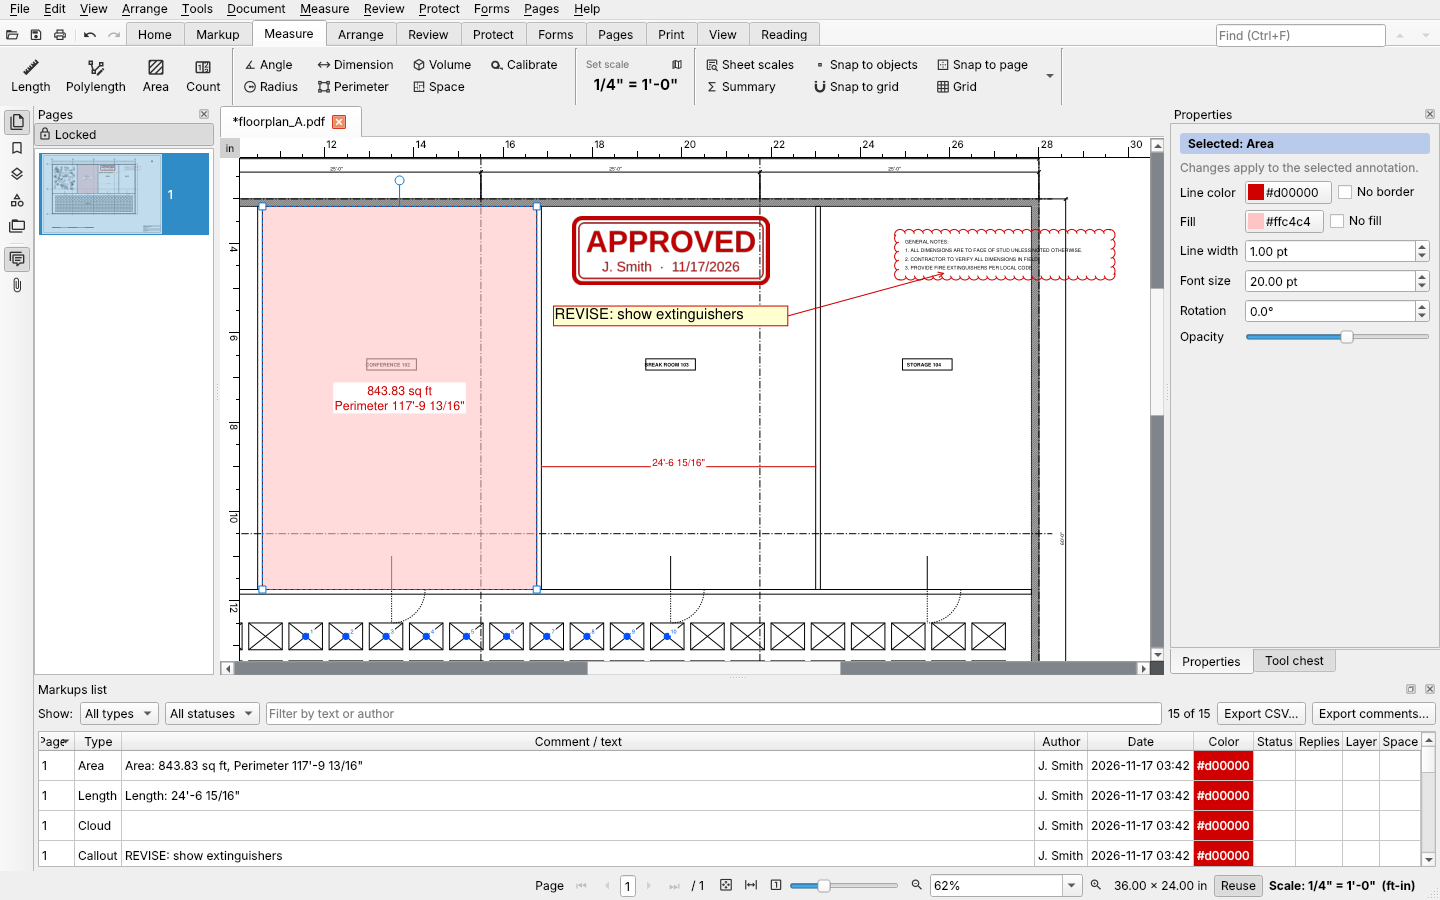
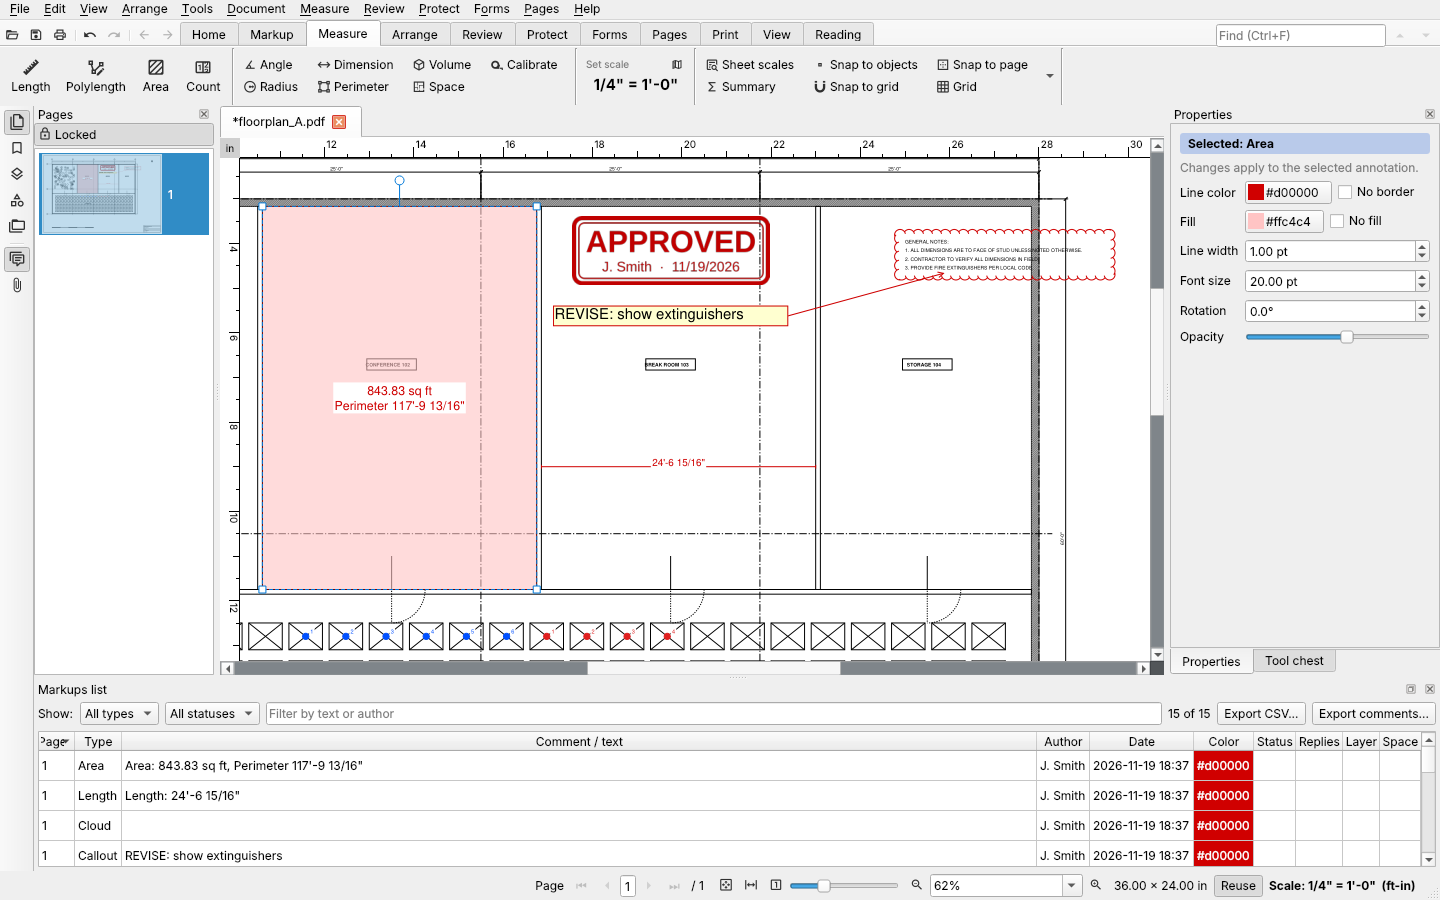
1.15.10: Back/Forward, links land where they say, Ctrl+middle-click, the Hand only views
Version 1.15.10, its CHANGELOG row (the 1.15.9 row's commit filled in:
9446127) and release notes (EN/ES/IT). README: Back and Forward,
Ctrl+middle-click, the view-only Hand and Space, named counts; the
screenshots made again (the Back / Forward arrows by Undo and Redo, two
named counts in their own colors on the measure one).

Claude-Session: https://claude.ai/code/session_01L7sMax7KMDgKJNCeao3RgY

Changed region(s): [[0.0938, 0.0311, 0.5938, 0.0622], [0.7188, 0.8089, 0.8125, 0.9644], [0.375, 0.8089, 0.4375, 0.84]]

diff --git a/tools/make_screenshots.py b/tools/make_screenshots.py
@@ -12,7 +12,8 @@ scene is set up through the app's own steps:
   screenshot-edit-text.png  Edit text open on a paragraph of the catalog's own text
   screenshot-forms.png      the catalog's order form filled in and signed, fields highlighted
   screenshot-measure.png    a floor plan measured to the scale its title block gives: an area
-                            (selected), a length, counts, a cloud with a callout, a stamp
+                            (selected), a length, two named counts, a cloud with a callout, a
+                            stamp
 
 The sample catalog ("Desert Bloom", 4 pages) is drawn here with PyMuPDF and its tile
 pictures with Pillow; the floor plan is tests/cad_samples.py's. Both go to a temporary
@@ -80,7 +81,7 @@ def _no_box(*args, **_kw):
 for _name in ("question", "information", "warning", "critical"):
     setattr(QMessageBox, _name, staticmethod(_no_box))
 
-from kanzonas import annotations, measure, theme  # noqa: E402
+from kanzonas import annotations, counts, measure, theme  # noqa: E402
 from kanzonas.main_window import MainWindow  # noqa: E402
 
 W, H = 612, 792                      # US Letter
@@ -683,7 +684,12 @@ def measure_scene(cad, plan, outdir):
     c = (r.tl + r.br) / 2
     big = pymupdf.Rect(c, c) + (pymupdf.Rect(r.tl - c, r.br - c) * 3.0)
     v._create(0, {"kind": "stamp", "props": props("stamp"), "rect": big})
+    # two named counts, each its own color (1.15.9): six workstations, then four data outlets
+    annotations.set_tool_props("m_count", props("m_count", group="Workstations"))
     for k in range(10):
+        if k == 6:
+            annotations.set_tool_props("m_count", props("m_count", group="Data outlets",
+                                                        stroke=counts.COLORS[1]))
         v.place_count(0, at(4 + (8 + k) * 3.6 + 1.5, 38 + 1.2))
     v.select_xref(0, area)
     show_markups_list(w, 190)

diff --git a/kanzonas/__init__.py b/kanzonas/__init__.py
@@ -1,6 +1,6 @@
 """KanzonasPDF: a free, fast PDF reader and editor."""
 
-__version__ = "1.15.9"
+__version__ = "1.15.10"
 
 # PyMuPDF 2.0 imports its optional layout-analysis package at import time, and that package
 # imports onnxruntime (a 100 MB AI runtime, also shipped here for OCR) as soon as it is

diff --git a/CHANGELOG.md b/CHANGELOG.md
@@ -5,7 +5,8 @@ and the installer is named `KanzonasPDF-v<version>-setup.exe` (the zips keep the
 
 | Version | Commit | Changes |
 | --- | --- | --- |
-| 1.15.9 | (this) | From @cloydcc-dev's issue #107 (19 Nov: "Is there a way to reset the count and set the layers and labels like a properties box (current one only show color and size)"; "if I remove one count it will just continue from the last (checkbox would be nice to turn on or off this behavior ...)"; "I also cant edit the labels from markup list so no way to fix the missing number") and the owner (19 Nov: renumbering an option, on by default; numbers fixed in Properties, the Markups list stays read-only). **Fixed: the Count tool's group could not be changed**: every marker went into "Count 1", though its tooltip said "set the group name in Properties" and the manual "with named groups" (Properties had no such row since Count came in). **Count in Properties** (counts.py, PropertiesPanel.count_rows, MainWindow._show_count_rows): Group (an editable list of the document's groups), New count (counts.next_group_name: Count 2 and on, whose first marker is 1), Keep the numbers in order (props "order", on by default; for the whole group), Layer (the Count tool's own, DocumentView.count_layer: As the Layers tab says, No layer, a layer, New layer...; picking a group again picks its markers' layer, count_group_layer), and the next marker's group and number. A selected marker: its Group (it takes the next number of the new group), Number (DocumentView.update_selected_counts; with the order kept, the others between its old and new number move one place), Layer, Keep the numbers in order. **Keep the numbers in order**: deleting markers (Delete, Cut, the Eraser) or moving one to another group numbers the rest of a group that keeps its order 1, 2, 3... again on every page, in the same undo step (DocumentView._counts_after_delete, counts.renumbered, _commit_counts across pages). Right-click > **Renumber group** (renumber_selected_counts) closes any gaps. A Tool Chest entry of the Count tool keeps its group with its color (New count and a group picked change that entry while it's in use: MainWindow._count_group_picked). **Each list its own look** (the owner, 19 Nov, both of the color ideas): New count takes the first of counts.COLORS no group of the document uses (counts.next_color); picking a group the document has gives the next markers its markers' layer, color, text size and opacity (counts.look_of, MainWindow._count_group_picked, _set_count_tool). **Gaps and repeats are shown** (the owner, 19 Nov: "If there's a gap, does it alert the user in any way?"): Properties names a group's missing and repeated numbers (counts.problems, problem_text), with Renumber beside it (DocumentView.renumber_count_group); nothing when they're clean. **Placed markers aren't selected** (place_count, select=False): Properties keeps showing the tool's group, next number and layer while you click, and follows each marker (documentChanged). Manual (EN/ES/IT): Measure, Count. Tests: tests/test_count_groups.py. |
+| 1.15.10 | (this) | From the owner (19 Nov). **Back / Forward** ("a back (and forward) button, up by the ribbon but not in a tab ... a selection in the right-click drop down. Alt + left arrow (back) and alt + right arrow (fwd)"; "all of your suggestions, including cross-document ability"): MainWindow.go_back / go_forward, beside Undo and Redo, View > Go to, first in the page's right-click menus; a jump (a link, a bookmark, Go to page, First / Last page, the page list, the Markups list and Next / Previous comment, a sheet of a set, the first match of a search) leaves its place (DocumentView.location, jumpFrom; goto_page(remember=True)); places across documents, a closed tab's file opened again (_show_place); held weakly (a closed view isn't kept among the open documents); 100 each way. **Links land where they say** ("it barely shows the bottom of it and what I see is more of the page after", on pages that aren't turned): a link through a named destination comes back from PyMuPDF in the PDF's own numbers, from the page's bottom; a link's place is already turned, a bookmark's isn't (DocumentView._go_to, space "pdf" / "shown" / "page"); a jump never takes the page out of the window. **Ctrl+middle-click a link** ("opening the same document in another tab with that location"; "View only (tab needs to say so in parentheses next to it), but Split View as an option in settings and a one time popup"; "a choice between Split View or opening in a new tab"): a new tab "(view only)" (DocumentView.mirror, view_only_tab; Save and Undo act on its document's tab; it closes with it) or the split view; asked once with Remember my choice; Preferences > Mouse. **The Hand only views** ("I want the hand to always show no matter what. Selecting text or objects while in hand should not be doable. Hand is like a view only type thing"): always a hand (the pointing hand on a link), never selects or edits (1.15.8's text selection and 1.12's markup selection by the Hand, and their two Preferences > Mouse switches, are gone), follows links (also under a markup: link_to_follow) and fills forms, a view-only right-click menu, a double-click opens only an attached file. **Space held** drags the page with any tool (DocumentView.space_pan). README: the new features, two named counts on the measure screenshot (tools/make_screenshots.py), the screenshots made again. Manual (EN/ES/IT). Tests: test_back_forward, test_link_jump, test_text_cursor (the Hand, Space), and tests that used the Hand to edit now use Select. |
+| 1.15.9 | 9446127 | From @cloydcc-dev's issue #107 (19 Nov: "Is there a way to reset the count and set the layers and labels like a properties box (current one only show color and size)"; "if I remove one count it will just continue from the last (checkbox would be nice to turn on or off this behavior ...)"; "I also cant edit the labels from markup list so no way to fix the missing number") and the owner (19 Nov: renumbering an option, on by default; numbers fixed in Properties, the Markups list stays read-only). **Fixed: the Count tool's group could not be changed**: every marker went into "Count 1", though its tooltip said "set the group name in Properties" and the manual "with named groups" (Properties had no such row since Count came in). **Count in Properties** (counts.py, PropertiesPanel.count_rows, MainWindow._show_count_rows): Group (an editable list of the document's groups), New count (counts.next_group_name: Count 2 and on, whose first marker is 1), Keep the numbers in order (props "order", on by default; for the whole group), Layer (the Count tool's own, DocumentView.count_layer: As the Layers tab says, No layer, a layer, New layer...; picking a group again picks its markers' layer, count_group_layer), and the next marker's group and number. A selected marker: its Group (it takes the next number of the new group), Number (DocumentView.update_selected_counts; with the order kept, the others between its old and new number move one place), Layer, Keep the numbers in order. **Keep the numbers in order**: deleting markers (Delete, Cut, the Eraser) or moving one to another group numbers the rest of a group that keeps its order 1, 2, 3... again on every page, in the same undo step (DocumentView._counts_after_delete, counts.renumbered, _commit_counts across pages). Right-click > **Renumber group** (renumber_selected_counts) closes any gaps. A Tool Chest entry of the Count tool keeps its group with its color (New count and a group picked change that entry while it's in use: MainWindow._count_group_picked). **Each list its own look** (the owner, 19 Nov, both of the color ideas): New count takes the first of counts.COLORS no group of the document uses (counts.next_color); picking a group the document has gives the next markers its markers' layer, color, text size and opacity (counts.look_of, MainWindow._count_group_picked, _set_count_tool). **Gaps and repeats are shown** (the owner, 19 Nov: "If there's a gap, does it alert the user in any way?"): Properties names a group's missing and repeated numbers (counts.problems, problem_text), with Renumber beside it (DocumentView.renumber_count_group); nothing when they're clean. **Placed markers aren't selected** (place_count, select=False): Properties keeps showing the tool's group, next number and layer while you click, and follows each marker (documentChanged). Manual (EN/ES/IT): Measure, Count. Tests: tests/test_count_groups.py. |
 | 1.15.8 | 9ec4fe4 | From the owner (18 Nov: "When I'm selecting text (not in cad mouse), the cursor is a hand instead of the text cursor"; "The cursor should be the pointer arrow until it browses over text"; "When in select mode, the hand should not drag the page", choosing that the Hand acts like Select there). **Standard (Select) mouse mode: nothing drags the page** (MainWindow.set_tool: the Hand picked there, by H, its button or a return to the last basic tool, is Select, with a status line saying how to move the page: the held wheel or the Hand mouse mode). **The text cursor over text, outside CAD mode** (DocumentView.text_cursor_at: on or right next to text a drag selects, the same test text_selection starts with; never in the CAD mouse mode, which keeps the plus or the arrow, the 12 Nov decision). **Select**: the I-beam over text, the arrow elsewhere, the four-way arrow over a markup (PageWidget._update_select_cursor). **The Hand selects text, as Acrobat's does**: over text the I-beam, and a drag from text selects it (PageWidget._hand_text, _begin_text_drag, shared with the text tools; a double-click selects the word, three clicks the line); its pointer is the arrow (DocumentView._tool_cursor; the closed hand while it moves the page; the open hand in CAD mode or with the option off), also over a markup (a click selects the markup); a link still opens, and a drag from anywhere else moves the page. **Fixed**: a cursor the gray around the pages took from a page (the text cursor, the four-way arrow) showed on that page's blank paper once the pointer was on it (PageWidget.enterEvent clears it; _Canvas takes only a cursor the page set). DocumentView.cad_like: the CAD mode or its plus cursor or window selection on. Preferences > Mouse, Hand: "Dragging from text with the Hand selects the text (the text cursor shows over text)" (on; mouse_modes "hand_text"; in CAD mode the Hand only moves the page). Manual (EN/ES/IT): Mouse: Hand, Select tool, the Hand tool, Preferences > Mouse. Tests: test_text_cursor (Standard, Hand and CAD modes, with mouse events sent to the page). |
 | 1.15.7 | 30307ab | From the owner (16 Nov: "Preview mode inside outlook classic isn't working. I think it used to"; Outlook 64-bit said "This file cannot be previewed because there is no previewer installed for it" while Explorer's Preview pane and thumbnails worked; KanzonasPDF installed just for the user; Outlook's Attachment and Document Previewers listed "PDF Preview Handler" but not KanzonasPDF's; "I want whatever option makes it just simplistic for people who don't know computers very well"). **KanzonasPDF's own Preview pane handler is no longer registered:** since 1.14.1 KanzonasPDF.Document's ShellEx named it, registered for the user (HKCU, the default just-me install); Explorer uses that, Outlook lists only previewers registered for the whole computer, so for KanzonasPDF's PDFs it found none. Without it, Windows' own PDF previewer shows previews in Explorer and Outlook, as before 1.14.1; the thumbnails stay KanzonasPDF's. installer/KanzonasPDF.iss: the Preview pane entries go; RemoveOldPreviewHandler (at ssPostInstall, HKLM or HKCU as installed) removes what 1.14.1 to 1.15.6 registered, whole (RegDeleteKeyIncludingSubkeys: Inno's deletekey flag would leave the key behind, empty). The DLL's preview handler is still built and tested (kzshell_test). The Windows build's installer test plants the old entries first and checks they're gone, and that the thumbnail handler is registered. Manual (EN/ES/IT), AGENTS.md, docs/ROADMAP.md. Tests: tests/test_shell_ext.py. |
 | 1.15.6 | 1b6dbb8 | From the owner (16 Nov: "I would like rotate to show up in the properties panel. Also, snap to isn't working when in cad mode to click on a point on the image I'm trying to rotate"). **Rotation in Properties for the page's own objects** (Edit objects, CAD mode): the panel showed nothing for them. One picture or group selected shows its Rotation, counterclockwise as the page is shown (DocumentView.objects_angle: its quad's top edge, with the page's rotation), and an angle typed turns it to that angle (the difference, through rotate_objects: one undo step); lines and shapes, or several objects, keep no angle of their own, so it shows Rotate by (PropertiesPanel.show_objects, objectsTurn), which turns them by what's typed and goes back to 0; with text among them it says text is moved, not turned. obj_sel is now a property that says when it changes (objectSelectionChanged; MainWindow._props_soon shows Properties once per step); DocumentView.describe_objects names what's selected (also in the status bar). **Snapping to pictures:** the snap points were the drawing's line work (get_cdrawings) and markups, so a picture's corner snapped to nothing, as a CAD command's base point; snapping.picture_points adds each picture's corners, edge middles and center from its transform (where they are when it's turned; in Form XObjects too), read only on a page that has pictures (page.get_images) through get_textpage (text_guard). Manual (EN/ES/IT: snapping, Edit objects), es.po/it.po. Tests: tests/test_rotation_props_snap.py (14). |

diff --git a/RELEASE_NOTES.md b/RELEASE_NOTES.md
@@ -9,6 +9,39 @@ Spanish translation under `## <version> (es)`. The Windows build fails without t
 translation under `## <version> (it)` is shown to Italian users (since 1.13); without one they
 see the English.
 
+## 1.15.10
+
+**New**
+- Back and Forward: the arrows beside Undo and Redo, Alt+Left / Alt+Right, View > Go to, or right-click the page. They take you back to where you were before a link, a bookmark, Go to page or a search, also in another document (opened again if you closed it).
+- Ctrl+middle-click a link to open its place in a new tab (view only) or in the split view, without leaving where you are. KanzonasPDF asks which the first time; Preferences > Mouse changes it.
+- The Hand only views now: it's always a hand, moves the page, follows links and fills in forms, and never selects or changes anything. Use Select (V) to select text and markups.
+- Hold Space and drag to move the page with any tool.
+
+**Fixed**
+- A link to a page sometimes showed the bottom of that page and mostly the next one: links through named destinations, and links to sheets turned a quarter, now land where they say.
+
+## 1.15.10 (es)
+
+**Novedades**
+- Atrás y Adelante: las flechas junto a Deshacer y Rehacer, Alt+Left / Alt+Right, Ver > Ir a, o clic derecho en la página. Lo llevan de vuelta a donde estaba antes de un vínculo, un marcador, Ir a la página o una búsqueda, también en otro documento (que se abre de nuevo si lo cerró).
+- Ctrl+clic central en un vínculo abre su lugar en una pestaña nueva (de solo lectura) o en la vista dividida, sin dejar donde está. KanzonasPDF pregunta cuál la primera vez; Preferencias > Mouse lo cambia.
+- La Mano ahora solo sirve para ver: siempre es una mano, mueve la página, sigue vínculos y rellena formularios, y nunca selecciona ni cambia nada. Use Seleccionar (V) para seleccionar texto y marcas.
+- Mantenga presionada la barra espaciadora y arrastre para mover la página con cualquier herramienta.
+
+**Correcciones**
+- Un vínculo a una página a veces mostraba el final de esa página y casi toda la siguiente: los vínculos a destinos con nombre y a hojas giradas un cuarto de vuelta ahora llevan a donde indican.
+
+## 1.15.10 (it)
+
+**Novità**
+- Indietro e Avanti: le frecce accanto ad Annulla e Ripeti, Alt+Left / Alt+Right, Visualizza > Vai a, o clic destro sulla pagina. Ti riportano dov'eri prima di un collegamento, un segnalibro, Vai a pagina o una ricerca, anche in un altro documento (riaperto se l'avevi chiuso).
+- Ctrl+clic centrale su un collegamento ne apre il punto in una nuova scheda (di sola lettura) o nella vista divisa, senza lasciare il punto in cui sei. KanzonasPDF chiede quale la prima volta; Preferenze > Mouse lo cambia.
+- La Mano ora serve solo a guardare: è sempre una mano, sposta la pagina, segue i collegamenti e compila i moduli, e non seleziona né cambia mai nulla. Usa Seleziona (V) per selezionare testo e annotazioni.
+- Tieni premuta la barra spaziatrice e trascina per spostare la pagina con qualsiasi strumento.
+
+**Correzioni**
+- Un collegamento a una pagina a volte mostrava il fondo di quella pagina e quasi tutta la successiva: i collegamenti a destinazioni con nome e ai fogli ruotati di un quarto di giro ora portano dove indicano.
+
 ## 1.15.9
 
 **New**

diff --git a/README.md b/README.md
@@ -59,6 +59,11 @@ how most of the features below got here.
 **Read and navigate**
 - Tabs, fast scrolling and zoom even on very large pages, page thumbnails, bookmarks, layers
 - Find with every match highlighted; split view to see two places at once
+- Back and Forward (Alt+Left / Alt+Right) to where you were before a link, a bookmark or a
+  search, also across documents; Ctrl+middle-click a link to open its place in a new tab or the
+  split view
+- A Hand tool that only views (it never selects or changes anything), and Space held to drag the
+  page with any tool
 - Light, dark or match-system theme; ribbon or classic toolbars; a command palette (Ctrl+Shift+P)
 
 **Comment and mark up**
@@ -103,6 +108,9 @@ how most of the features below got here.
   from the sheet's title block
 - Length, polylength, area, perimeter, volume, angle, radius and counts, with snapping and a
   measurement summary you can export to CSV
+- Named counts ("Smoke detectors", "Data outlets"...), each with its own color and layer,
+  numbered 1, 2, 3... and kept in order when one is deleted, with any gap or repeated number
+  pointed out
 - Compare two revisions of a sheet, with every change clouded; links from sheet callouts to the
   sheets they name
 - And, for fun, a CAD mode with AutoCAD-style move, copy, rotate, mirror, trim and a command line
@@ -116,7 +124,7 @@ and, if you add a trusted timestamp to a digital signature, to contact a timesta
 
 <p align="center">
   <img src="docs/screenshot-dark.png" width="49%" alt="The same catalog review in the dark theme">
-  <img src="docs/screenshot-measure.png" width="49%" alt="Measuring a floor plan: an area, a length, counts, a revision cloud and a stamp, with the scale read from the title block">
+  <img src="docs/screenshot-measure.png" width="49%" alt="Measuring a floor plan: an area, a length, two named counts in their own colors, a revision cloud and a stamp, with the scale read from the title block">
 </p>
 
 ## Download and install
